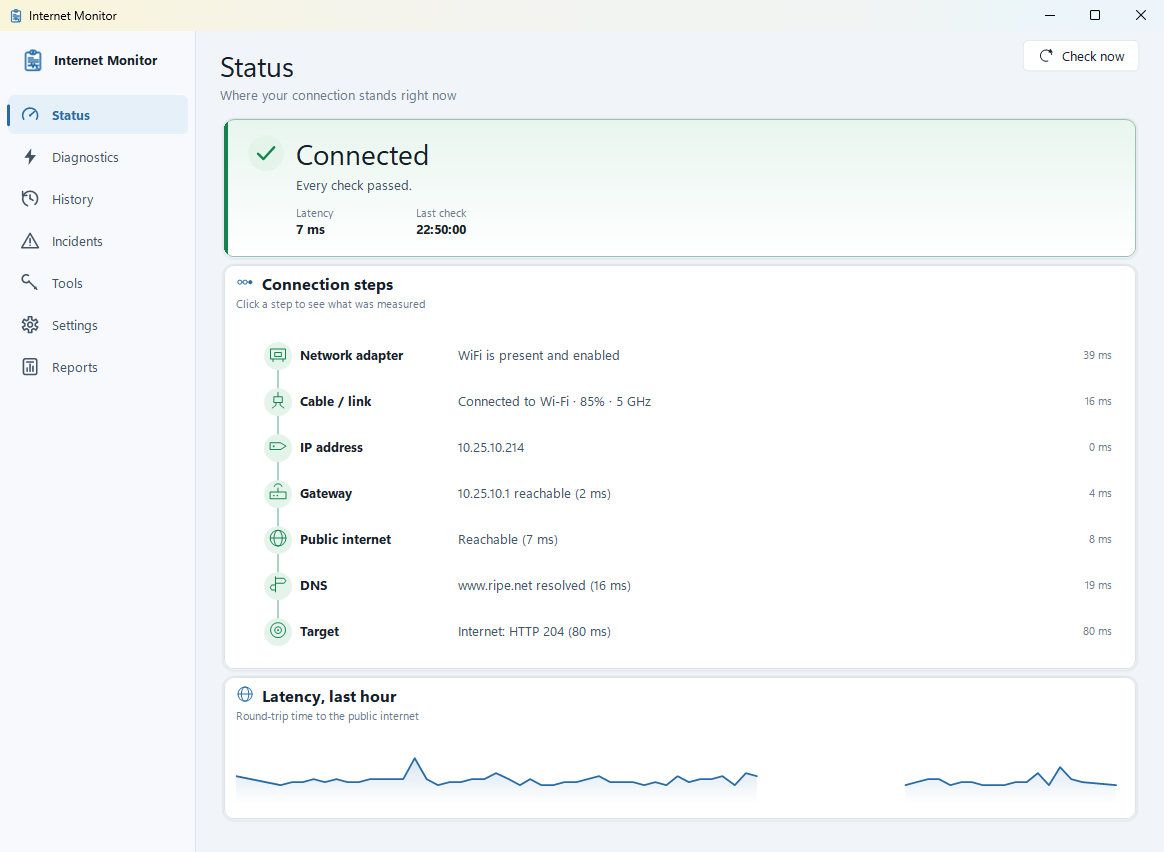
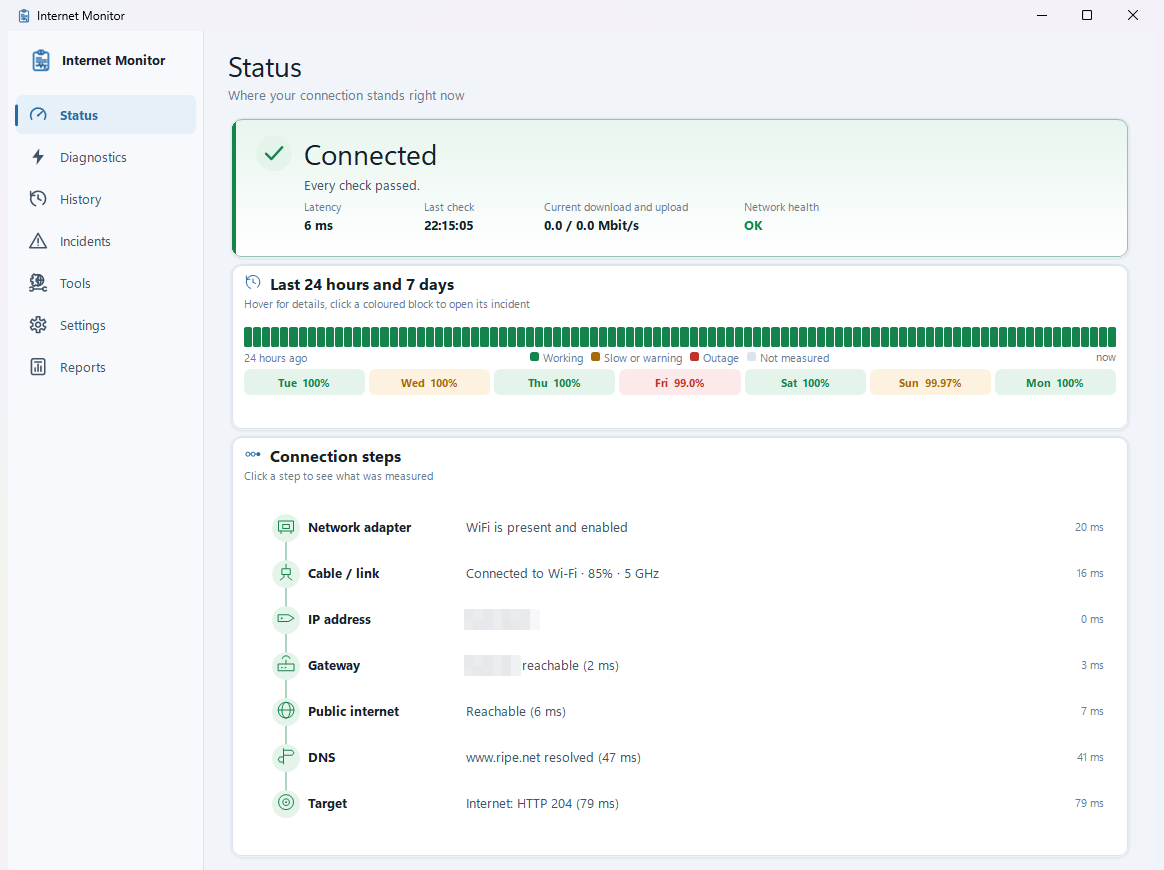
README: every selling point has a screenshot, and the screenshots are current
Eleven screenshots from 2.6.0 under docs/screenshots: the Status screen with the uptime strip, an explained DNS incident, a provider-side outage next to the provider report (with the comparison to the period before), a network-change incident next to the grouped History page with unanswered lookups marked, traceroute and speed test, the Reports page and the network settings, and Diagnostics. The incidents and history behind them are a synthetic example set; the few live pages have their addresses blurred. "Six screens" is seven.

diff --git a/README.md b/README.md
@@ -45,10 +45,36 @@ one `.exe`, nothing to install, free and open source.
 - **It stays out of your way.** A single `.exe` that runs without admin rights, follows Windows'
   light or dark theme, speaks eight European languages, and can keep itself up to date.
 
+The screenshots below show the app on a small home network; the incidents and history are an example set, and addresses that would identify a real network are blurred.
+
 <p align="center">
-  <img src="docs/screenshots/provider-report.png" alt="A report for your provider: availability, outages and where they originated" width="49%">
-  <img src="docs/screenshots/reports.png" alt="The Reports page: the provider report and the data exports" width="49%">
+  <img src="docs/screenshots/incidents.png" alt="An incident, explained: what happened, the likely cause, what you can do - with the route to the DNS server and this computer's own traffic around the moment" width="92%">
 </p>
+<p align="center"><em><strong>Every incident is explained in plain language</strong> - what happened, the likely cause and what to do - with the checks at that moment, the route the packets took, and how busy this computer's own line was. Here a DNS server that was reachable but silent on port 53.</em></p>
+
+<p align="center">
+  <img src="docs/screenshots/provider-report.png" alt="The report for your provider: availability, outages on the provider's side, speed tests against the subscription, and the change since the period before" width="49%">
+  <img src="docs/screenshots/incident-outage.png" alt="A provider-side outage: the traceroute that stopped at the provider, the note with the ticket number, and an idle line before it" width="49%">
+</p>
+<p align="center"><em><strong>Evidence for your provider.</strong> Left: the report - availability counting only outages on the provider's side, every outage with its cause, speed tests against your subscription, and the change since the period before. Right: one of those outages - the route stopped two hops out at the provider, the line was idle, and your note holds the ticket number.</em></p>
+
+<p align="center">
+  <img src="docs/screenshots/incident-network-change.png" alt="A network change recorded as an incident: the connection moved from Ethernet to Wi-Fi, with the moment Ethernet was usable again and when the traffic moved back" width="49%">
+  <img src="docs/screenshots/history.png" alt="The History page: a group, a series in it and a range; the DNS chart marks every unanswered lookup" width="49%">
+</p>
+<p align="center"><em><strong>It catches what other tools miss.</strong> Left: the environment <em>moving</em> rather than breaking - the connection quietly went over Wi-Fi after the cable adapter lost its DHCP server, and the timeline says when Ethernet was back and when the traffic returned. Right: History, with every unanswered DNS lookup marked on the chart - a resolver that goes quiet for a few seconds at a time is visible even when it never lasts long enough to become an incident.</em></p>
+
+<p align="center">
+  <img src="docs/screenshots/traceroute.png" alt="Traceroute with every hop annotated: your own network, the provider's, and who owns the rest" width="49%">
+  <img src="docs/screenshots/speedtest.png" alt="The speed test: ping, jitter, download, upload and the extra ping under load with its bufferbloat grade" width="49%">
+</p>
+<p align="center"><em><strong>The tools are built in.</strong> A traceroute that says what each hop is - still your own network, inside the provider, or a third party - and a speed test that also measures how much the ping grows while the line is full, graded A to F.</em></p>
+
+<p align="center">
+  <img src="docs/screenshots/reports.png" alt="The Reports page: the provider report with its period, comparison and subscription speed, and the exports including the one for AI analysis" width="49%">
+  <img src="docs/screenshots/settings-network.png" alt="Settings: network changes and network health, each condition with its own switch" width="49%">
+</p>
+<p align="center"><em><strong>Ready for AI, and tunable.</strong> Left: one document with instructions and everything the monitor recorded, pseudonymised, to paste into the AI assistant of your choice. Right: the switches for network changes and packet-level network health.</em></p>
 
 ## Get started in a minute
 
@@ -121,7 +147,7 @@ the slower, background rate regardless, so retention and chart density don't cha
 whether you happen to have the window open. History is kept for 30 days by default; Settings →
 Check interval offers 7, 30, 60 or 90 days. Incidents are always kept.
 
-## Six screens
+## Seven screens
 
 - **Status** (left-click the tray icon): a simple green/red/amber overview with a plain-language
   explanation, the last 24 hours in quarter-hour blocks and the last seven days with their
@@ -166,6 +192,11 @@ Check interval offers 7, 30, 60 or 90 days. Incidents are always kept.
   tunnel or VPN in the path apart.
 - **Reports**: the [report for your provider](#report-for-your-provider) and the
   [data exports](#exporting-data).
+
+<p align="center">
+  <img src="docs/screenshots/diagnostics.png" alt="The Diagnostics page: the network-health conditions, the clock check, and every step's raw measurements" width="92%">
+</p>
+<p align="center"><em>Diagnostics: every measurement behind the verdict, the packet-level network-health conditions and the clock check.</em></p>
 
 ## Wi-Fi details
 
